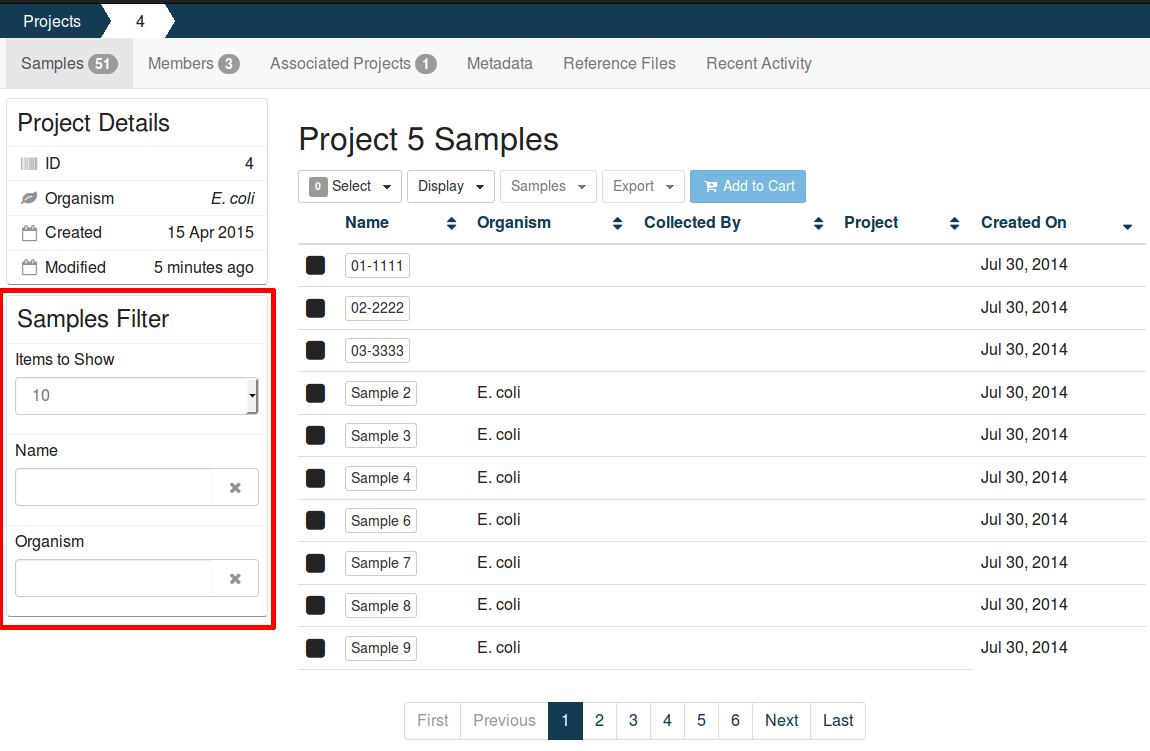
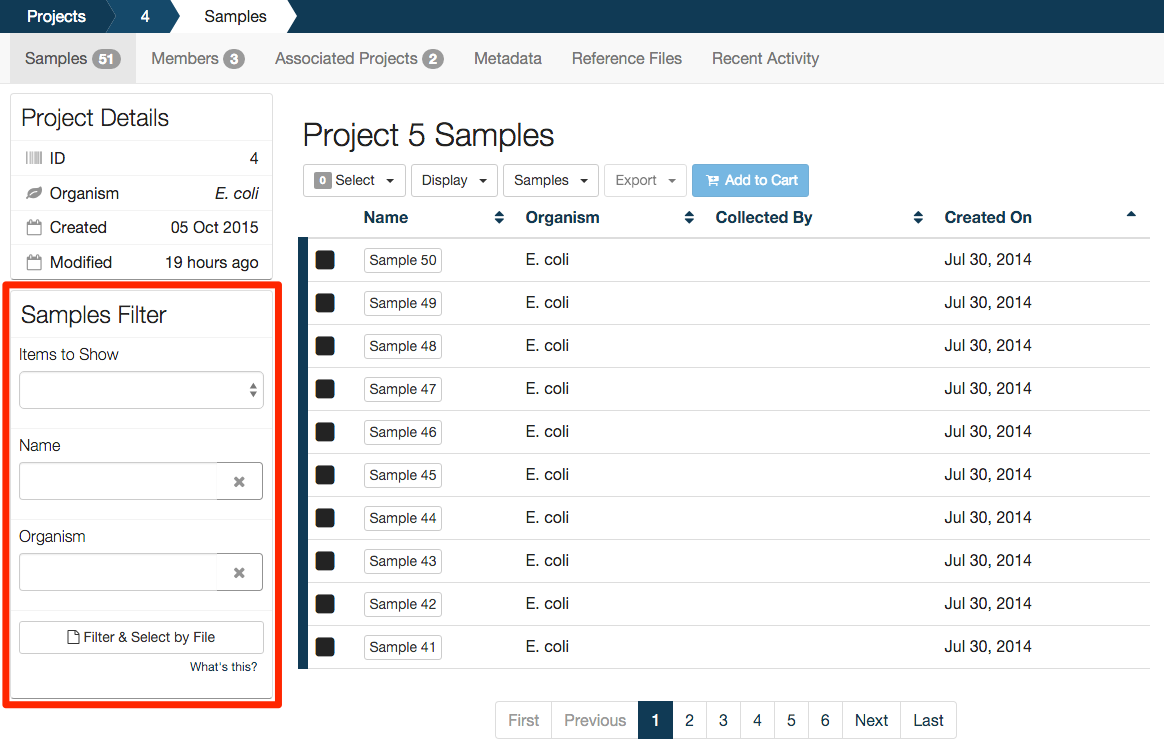
Added documentation

diff --git a/src/main/webapp/pages/projects/project_samples.html b/src/main/webapp/pages/projects/project_samples.html
@@ -77,6 +77,7 @@
 						ng-click="sf.clearFileFilter()" th:text="#{project.sample.ClearFilterByFile}">Clear File Filter
 				</button>
 			</form>
+			<div class="clearfix"><button class="btn btn-link btn-xs btn-default pull-right" ng-click="sf.showFileFilterDesc()"><small th:text="#{project.sample.filterByFile.modal.button}">What's this?</small></button></div>
 		</div>
 	</div>
 </aside>
@@ -340,20 +341,31 @@
 	</div>
 </main>
 
-<script layout:fragment="scripts" th:inline="javascript">
-	var PAGE = {
-		urls: {
-			local     : /*[[@{/projects/{id}/ajax/samples(id=${project.getId()})}]]*/ '',
-			associated: /*[[@{/projects/{id}/associated/samples(id=${project.getId()})}]]*/ '',
-			remote    : /*[[@{/projects/{id}/associated/remote/samples(id=${project.getId()})}]]*/ '',
-			merge     : /*[[@{/projects/{id}/ajax/samples/merge(id=${project.getId()})}]]*/ '',
-			remove    : /*[[@{/projects/{id}/ajax/samples/delete(id=${project.getId()})}]]*/ '',
-			copy      : /*[[@{/projects/{id}/ajax/samples/copy(id=${project.getId()})}]]*/ ''
-		},
-		i18n: {
-			associatedSelectedTooltip: /*[[#{project.samples.associated-selected-error}]]*/ '_Unavailable_'
-		}
-	};
-</script>
+<th:block th:inline="javascript" layout:fragment="scripts">
+	<script type="text/ng-template" id="/fileFilterDescription.tmpl.html">
+		<div class="modal-header">
+			<h3 class="modal-title" th:text="#{project.sample.filterByFile.modal.title}">_Filter by File</h3>
+		</div>
+		<div class="modal-body">
+			<p th:text="#{project.sample.filterByFile.modal.body}">To simplify selecting many samples from large projects, create a text file that contains the names of the samples you want to run, each name on it's own line.</p>
+		</div>
+	</script>
+
+	<script>
+		var PAGE = {
+			urls: {
+				local: /*[[@{/projects/{id}/ajax/samples(id=${project.getId()})}]]*/ '',
+				associated: /*[[@{/projects/{id}/associated/samples(id=${project.getId()})}]]*/ '',
+				remote: /*[[@{/projects/{id}/associated/remote/samples(id=${project.getId()})}]]*/ '',
+				merge: /*[[@{/projects/{id}/ajax/samples/merge(id=${project.getId()})}]]*/ '',
+				remove: /*[[@{/projects/{id}/ajax/samples/delete(id=${project.getId()})}]]*/ '',
+				copy: /*[[@{/projects/{id}/ajax/samples/copy(id=${project.getId()})}]]*/ ''
+			},
+			i18n: {
+				associatedSelectedTooltip: /*[[#{project.samples.associated-selected-error}]]*/ '_Unavailable_'
+			}
+		};
+	</script>
+</th:block>
 </body>
 </html>

diff --git a/src/main/webapp/resources/js/pages/projects/samples.js b/src/main/webapp/resources/js/pages/projects/samples.js
@@ -800,7 +800,7 @@
     }
   }
 
-  function FilterCtrl($scope, filter) {
+  function FilterCtrl($scope, $modal, filter) {
     "use strict";
     var vm = this;
     vm.filter = filter;
@@ -820,6 +820,13 @@
       vm.fileFiltering = false;
       fileFilterForm.reset();
       $scope.$emit('CLEAR_FILE_FILTER');
+    };
+
+    vm.showFileFilterDesc = function () {
+      $modal.open({
+        templateUrl: '/fileFilterDescription.tmpl.html',
+        size: 'sm'
+      })
     };
 
     $scope.$watch(function () {
@@ -924,7 +931,7 @@
     .controller('SelectedCountCtrl', ['$scope', SelectedCountCtrl])
     .controller('LinkerCtrl', ['$modalInstance', 'SamplesService', LinkerCtrl])
     .controller('SortCtrl', ['$rootScope', 'FilterFactory', SortCtrl])
-    .controller('FilterCtrl', ['$scope', 'FilterFactory', FilterCtrl])
+    .controller('FilterCtrl', ['$scope', '$modal', 'FilterFactory', FilterCtrl])
     .controller('CartController', ['CartService', 'StorageService', CartController])
     .controller('SampleDisplayCtrl', ['$rootScope', 'SamplesService', SampleDisplayCtrl])
     .controller('ConnectionWarningCtrl', ['$rootScope', 'SamplesService', ConnectionWarningCtrl])

diff --git a/doc/user/user/samples/index.md b/doc/user/user/samples/index.md
@@ -123,6 +123,28 @@ The filters work by only showing samples that have the search string *anywhere* 
 
 To remove a filter from your view, either click the <img src="images/clear-filter-button.png" class="inline" alt="Clear filter button."> icon, or delete the text in your filter.
 
+Filtering and Selecting by File
+-------------------------------
+
+As projects become larger, it becomes unwieldy to select a large subset of samples.  To facilitate this, there is the 'Filter by File' option.
+
+* Create a `.txt` file that contains the name of each sample you want to select on a new line. Example (`project_5_filter.txt`):
+
+<pre>
+Sample 50
+Sample 43
+Sample 41
+</pre>
+
+* On the project samples page, select the 'Filter & Select by File' button from the filter menu.
+
+![Filter by File Button](images/filter_by_file_btn.png)
+
+* Select the file you created.  This will clear all previous filters, then filter and select the samples that have matching names to those in your list.
+
+![Filter by File Button](images/filter_by_file_selected.png)
+
+
 Viewing associated samples
 --------------------------
 
